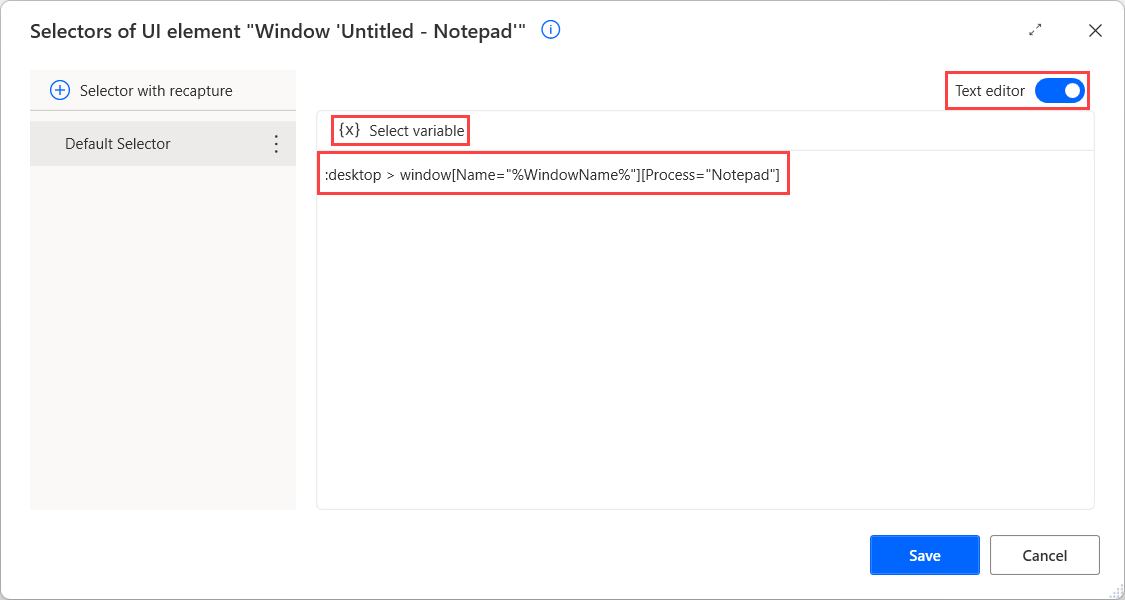
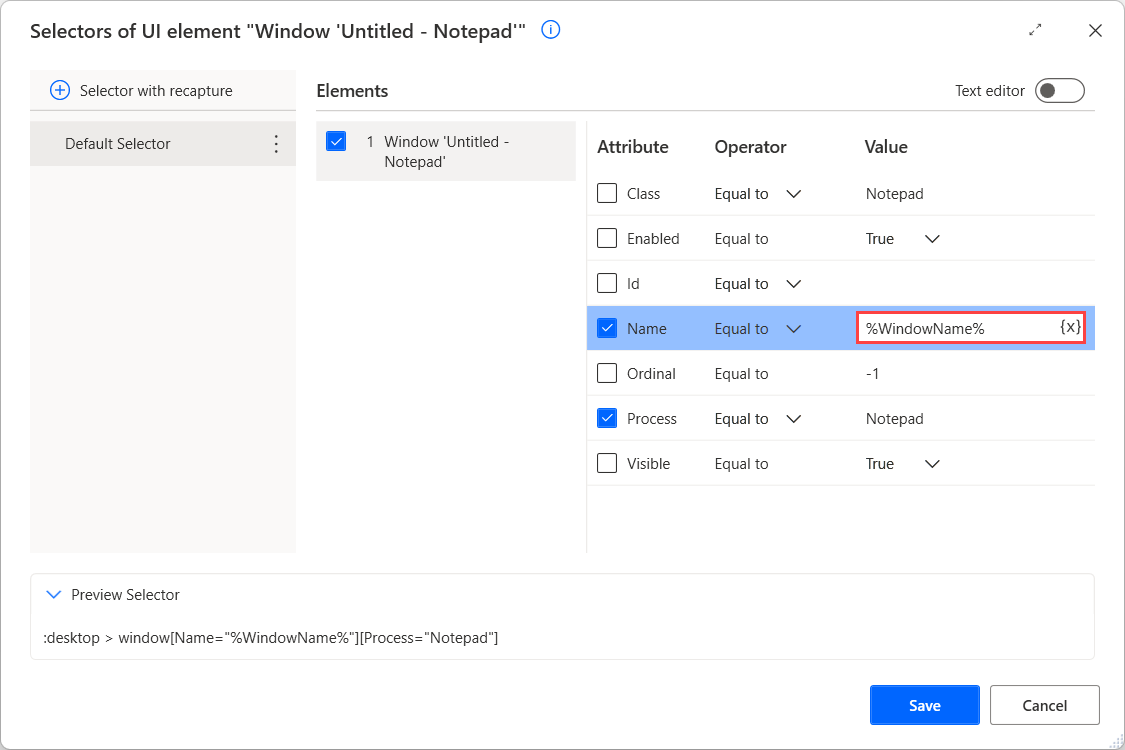
Updates in Build a custom selector

diff --git a/articles/desktop-flows/build-custom-selectors.md b/articles/desktop-flows/build-custom-selectors.md
@@ -17,13 +17,6 @@ search.audienceType:
 
 # Build a custom selector
 
-Power Automate enables users to interact with web and desktop applications through UI elements. Consider UI elements as application components, such as buttons and text fields.
-
-To specify a UI element, you have to create selectors that pinpoint the specific component you want to interact with.
-
-> [!NOTE]
-> Power Automate supports the creation of multiple selectors for a UI element. If a selector fails to access the element, the following selector is used.
-
 Although Power Automate enables users to create selectors automatically, some particular scenarios need manually created selectors. A common scenario is the automation of applications that display dynamic content.
 
 When a custom selector is needed, you can modify an existing selector or build one from scratch.
@@ -83,20 +76,10 @@ Apart from the **Equal to** and **Contains** operators, Power Automate provides 
 
 ## Use variables in a custom selector
 
-Apart from various operators, Power Automate enables you to create dynamic selectors using variables.
+Apart from various operators, Power Automate enables you to create dynamic selectors using variables. If the value of a selector's attribute depends on calculations and results of previous actions, replace the hard-coded value with a variable.
 
-If the value of a selector's attribute depends on calculations and results of previous actions, replace the hard-coded value with a variable.
-
-To use a variable in a selector, launch the **Text editor** and populate manually the variable's name enclosed by percentage signs (**%**) or use the **Select variable** button. You can find more information about the percentage notation in [Use variables and the % notation](variable-manipulation.md).
+To use a variable in a selector, populate manually its name enclosed by percentage signs (**%**) or use the variables button. Variables can be used in both visual editor and text editor. You can find more information about the percentage notation in [Use variables and the % notation](variable-manipulation.md).
 
 If you use a variable in the **Name** attribute of the Notepad example, the selector should be **:desktop > window[Name="%WindowName%"][Process="Notepad"]**.
 
 ![Screenshot of a variable in the Notepad selector .](media/build-custom-selectors/variable-notepad-selector.png)
-
-
-
-
-
-
-
-

diff --git a/articles/desktop-flows/ui-elements.md b/articles/desktop-flows/ui-elements.md
@@ -74,7 +74,7 @@ Each selector consists of multiple elements representing the hierarchical struct
 
 All selectors are displayed with a default friendly name that makes them easily accessible. To rename a selector, right-click on its name and select **Rename**. 
 
-When you edit a UI element with multiple selectors, you are able to disable a selector by right-clicking on it and selecting **Disable**. This functionality can be helpful during testing.
+When you edit a UI element with multiple selectors, you're able to disable a selector by right-clicking on it and selecting **Disable**. This functionality can be helpful during testing.
 
 ![Screenshot of the rename and disable options for a selector.](./media/ui-elements/rename-disable-selector.png)
 
